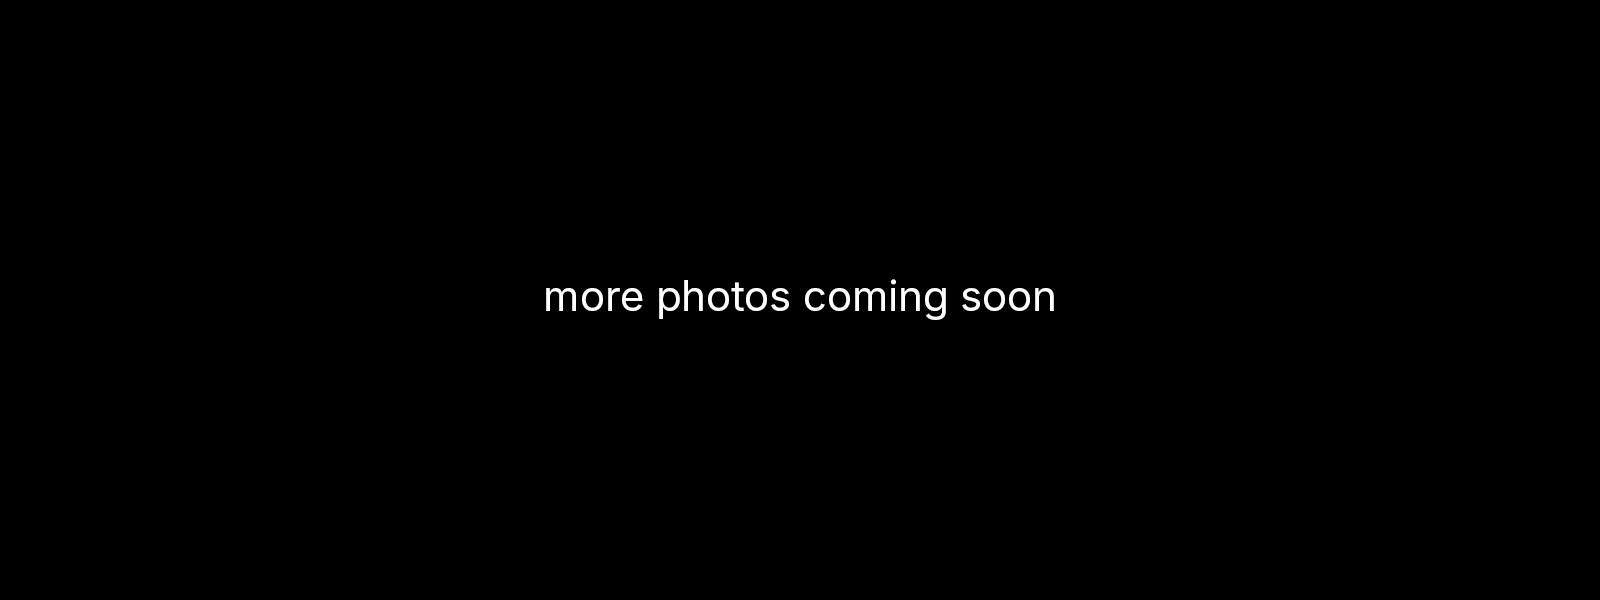
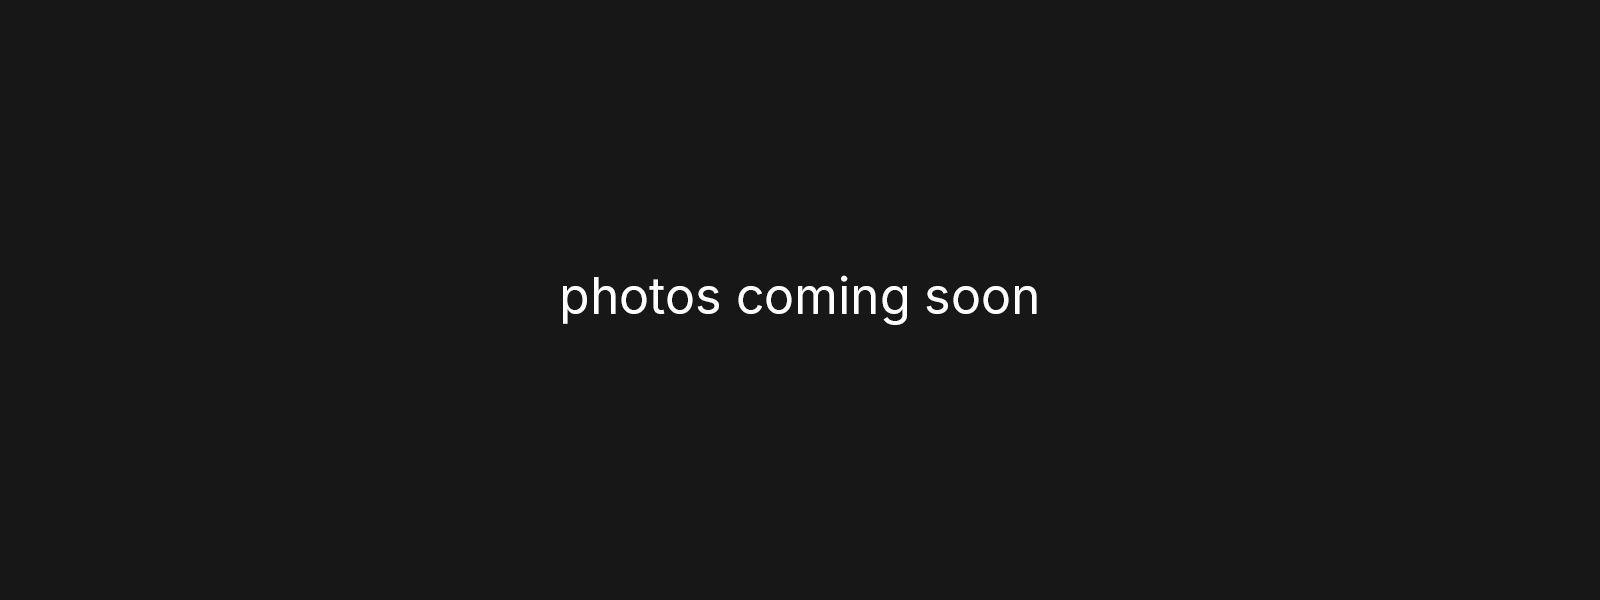
minor edits

Changed region(s): [[0.3438, 0.45, 0.6562, 0.54]]

diff --git a/src/config/documentation.md b/src/config/documentation.md
@@ -70,7 +70,7 @@ This step must be completed before connecting to our AVB network via a Digiface 
 
 <details><summary>Step 3: Assign Audio Routes in Milan Manager</summary>
 
-This step covers audio routing with [**Milan Manager**](https://milanmanager.com/), which is used to route AVB streams between devices across the studio network. AVB streams are multichannel audio connections; in our system, each stream contains 16 channels of audio, and users can route up to eight input and eight output streams to and from their computer.
+This step covers audio routing with [Milan Manager](https://milanmanager.com/), which is used to route AVB streams between devices across the studio network. AVB streams are multichannel audio connections; in our system, each stream contains 16 channels of audio, and users can route up to eight input and eight output streams to and from their computer.
 
 ## Audio Routing / AVB Streams
 
@@ -84,7 +84,7 @@ This configuration allows a user to record into and monitor their project, and c
 
 ![Front Panel of an RME 12Mic](./images/documentation/rme-12mic.jpeg)
 
-AD/DA streams correspond to the patchbays in each room's system rack. These connections are normalled to provide default routing between analogue devices and the AVB network, while allowing users to override these paths using patch cables. This enables the network integration of analog equipment, such as monitor controllers, FX processors and channel strips, into the audio network.
+AD/DA streams correspond to the patchbays in each room's system rack. These connections are normalled to provide default routing between analogue devices and the AVB network, while allowing users to override these paths using patch cables. This enables the integration of analog equipment, such as monitor controllers, FX processors and channel strips, into the audio network.
 
 In each room, DA Outputs 1–16 are mirrored to the [Behringer P16-I](./resources/behringer/P16-I.pdf) personal monitoring interfaces. Users can then connect up to three [P16-HQ](./resources/behringer/P16-HQ.pdf) personal mixers to access these channels and create their own headphone mix.
 
@@ -93,11 +93,11 @@ In each room, DA Outputs 1–16 are mirrored to the [Behringer P16-I](./resource
 ## Sample Rate & Media Clock
 
 The 48kHz sample rate is not a system limitation, but the default configuration chosen to ensure compatibility across all connected equipment.
-If a project requires a higher sampling rate, please contact studio management for further instruction.
+If a project requires a higher sample rate, please contact studio management for further instruction.
 
 Under normal operation, the Plant Room’s internal clock should be assigned as the master clock source for the entire network, and the system should operate within a single media clock domain.
 Clocking issues can manifest as audio dropouts, glitches, distortion, audible tearing, intermittent noise, or complete loss of audio.
-If clocking issues occur, open the **Devices** tab in Milan Manager and [check the network clock configuration](./images/documentation/milanclock.gif).
+If clocking issues occur, open the 'Devices' tab in Milan Manager and [check the network clock configuration](./images/documentation/milanclock.gif).
 
 </details>
 
@@ -109,7 +109,7 @@ We also support [Dante](https://www.getdante.com/meet-dante/what-is-dante/) audi
 
 Devices can be connected to our Dante network via any **LAN** wall port, or using the dedicated Dante ports in the Performance Lab.
 
-These connected devices and their associated routings are managed in [Dante Controller](https://www.getdante.com/products/software-essentials/dante-controller/). Users connecting through the Dante-AVB bridge should route their Dante streams to this bridge in Dante Controller, and then complete the corresponding AVB routing in [Milan Manager](https://milanmanager.com/#downloads) (see Step 3). The Dante-MADI bridge is routed entirely within Dante Controller and does not require Milan Manager routing.
+These connected devices and their associated routings are managed in [Dante Controller](https://www.getdante.com/products/software-essentials/dante-controller/). Users connecting through the Dante-AVB bridge should route their Dante streams to this bridge in Dante Controller, and then complete the corresponding AVB routing in [Milan Manager](https://milanmanager.com/#downloads) (see Step 3). The Dante-MADI bridge is routed entirely within Dante Controller and does not require routing in Milan Manager.
 
 ![Dante Controller screenshot showing AVB and MADI bridges](/images/documentation/dante-avb.png)
 

diff --git a/src/config/studios.md b/src/config/studios.md
@@ -25,6 +25,7 @@
 		</figcaption>
 	</figure>
 </div>
+(more photos coming soon)
 
 # Equipment
 
